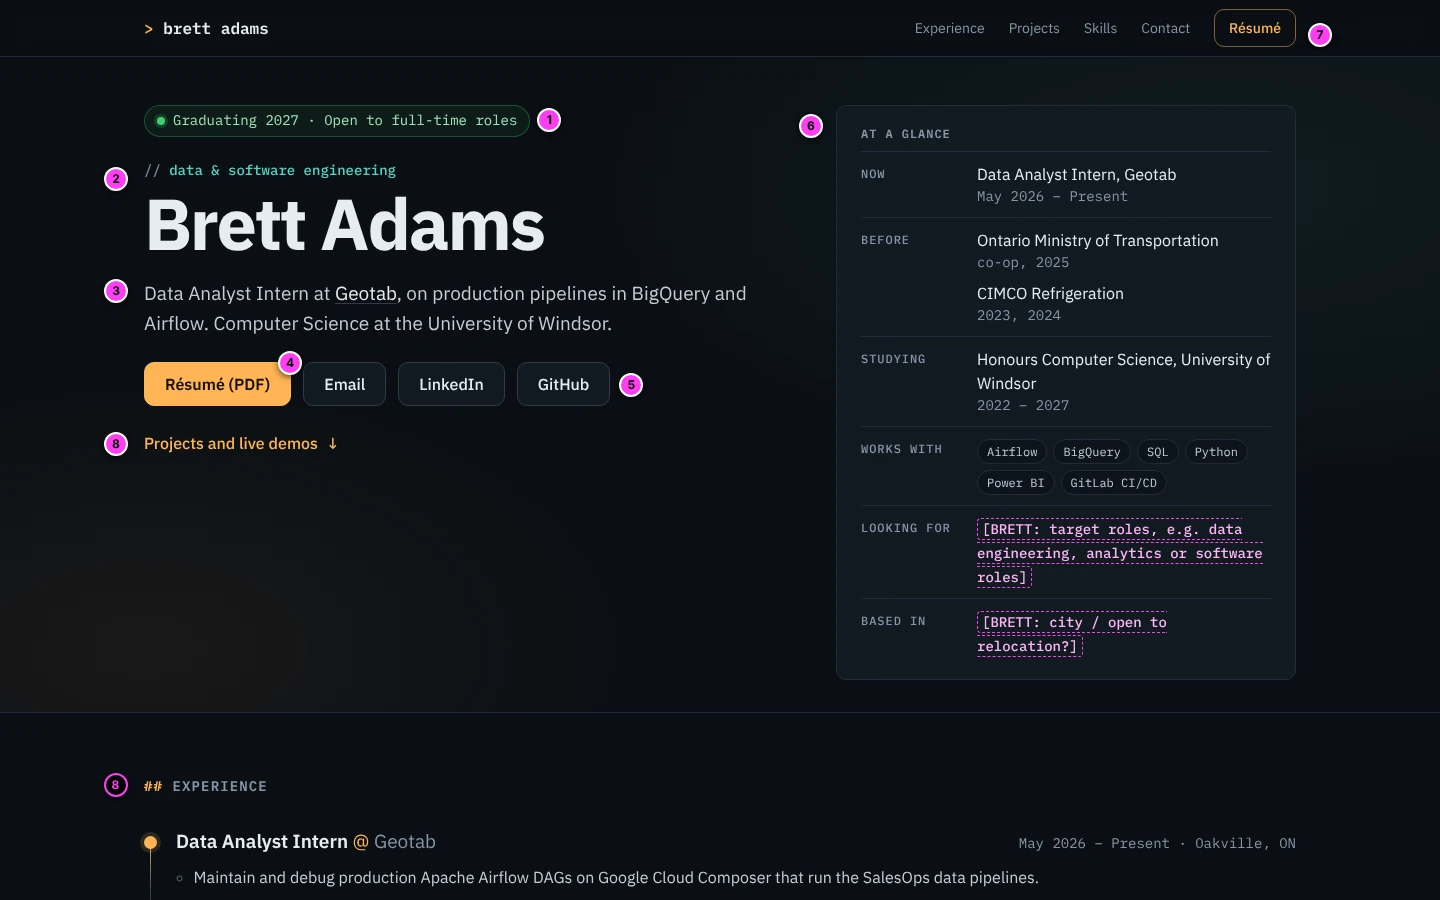
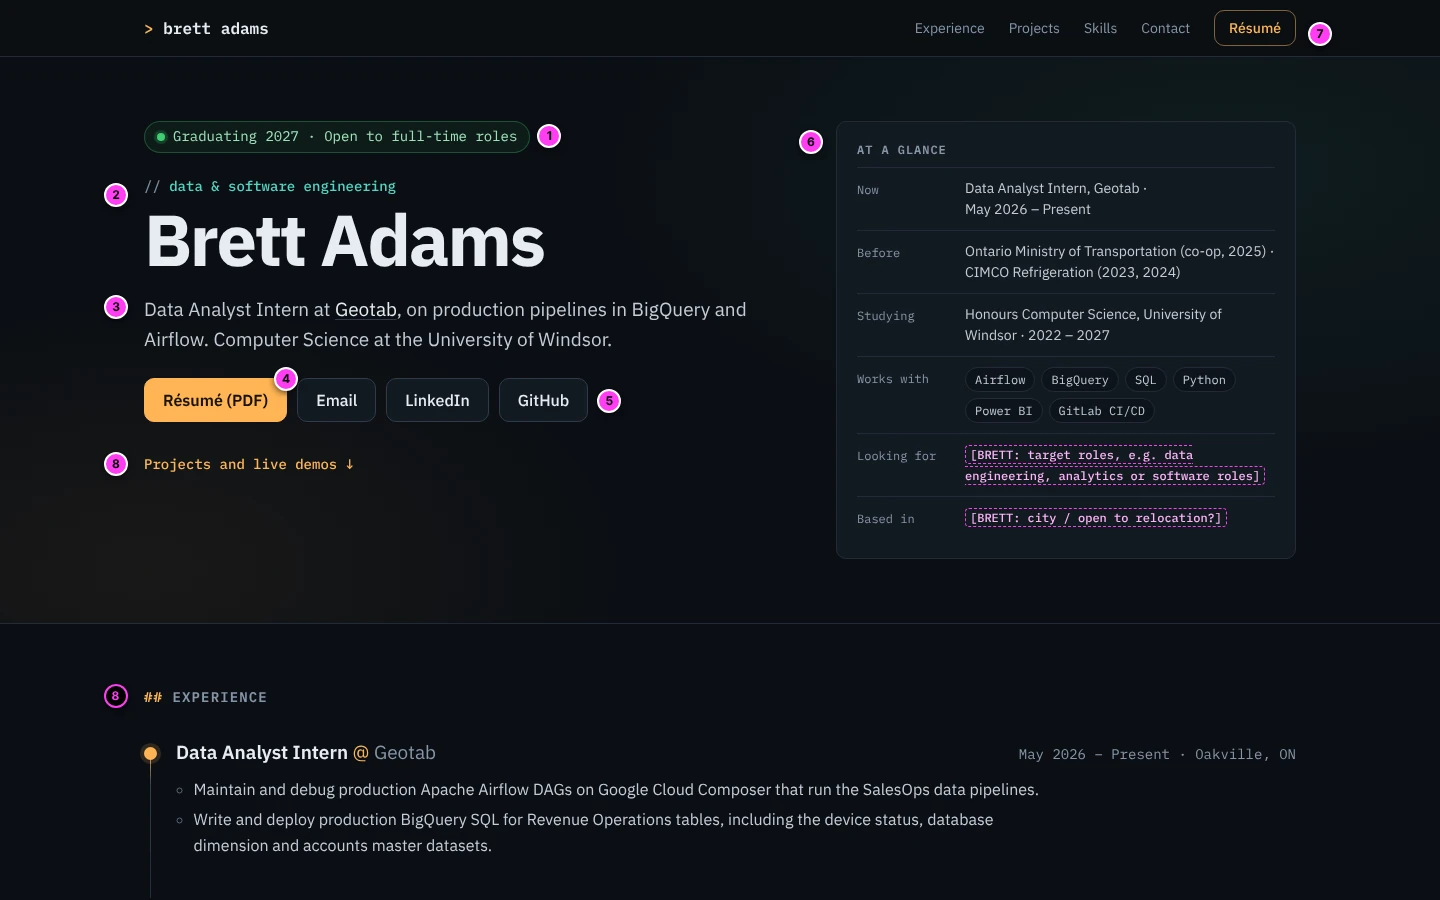
WIP: first-screen mock rebuilt to the component markup
Claude-Session: https://claude.ai/code/session_01QvLCeGaMDEbJwXX9Jf32bx

diff --git a/handoff/mocks/first-screen.html b/handoff/mocks/first-screen.html
@@ -8,6 +8,7 @@
   - Magenta circles (.mk) and magenta dashed boxes (.ph) are mock overlays, not design.
     Circles are aria-hidden. Dashed boxes mark [BRETT: ...] placeholders that never ship.
   - Copy is the sourced copy from section 6. Links point where the real ones will.
+  - Markup and class names follow section 8 (8.0-8.4); values come from section 7.
 -->
 <html lang="en">
 <head>
@@ -144,6 +145,7 @@
 /* ---- Base ---- */
 *, *::before, *::after { box-sizing: border-box; }
 html { -webkit-text-size-adjust: 100%; scroll-padding-top: calc(var(--header-h) + var(--space-4)); }
+@media (prefers-reduced-motion: no-preference) { html { scroll-behavior: smooth; } }
 body {
   margin: 0;
   background: var(--bg);
@@ -151,10 +153,15 @@ body {
   font: 400 var(--fs-base) / var(--lh-base) var(--sans);
   -webkit-font-smoothing: antialiased;
 }
-a { color: var(--amber); text-decoration-thickness: 1px; text-underline-offset: 3px; }
+a { color: var(--amber); text-decoration-thickness: 1px; text-underline-offset: 3px; transition: color var(--dur-fast) var(--ease-out); }
 a:hover { color: var(--amber-hi); }
-:focus-visible { outline: 2px solid var(--focus); outline-offset: 3px; border-radius: var(--radius-sm); }
+:focus-visible { outline: 2px solid var(--focus); outline-offset: 3px; border-radius: 4px; }
+main:focus { outline: none; }
 .wrap { max-width: var(--container); margin: 0 auto; padding: 0 var(--gutter); }
+.prefix { color: var(--amber); white-space: pre; }   /* keeps the trailing space inside inline-flex parents */
+.nowrap { white-space: nowrap; }
+.kicker .prefix { color: var(--dim); }
+.sr-only { position: absolute; width: 1px; height: 1px; padding: 0; margin: -1px; overflow: hidden; clip: rect(0 0 0 0); white-space: nowrap; border: 0; }
 
 .skip-link {
   position: absolute; left: var(--space-4); top: -48px; z-index: var(--z-skip);
@@ -163,47 +170,39 @@ a:hover { color: var(--amber-hi); }
 }
 .skip-link:focus { top: var(--space-3); }
 
-/* ---- Header ---- */
+/* ---- 8.1 Header ---- */
 .site-header {
   position: sticky; top: 0; z-index: var(--z-header);
-  background: rgba(11, 15, 20, 0.82);
+  background: rgba(11, 15, 20, 0.92);
   -webkit-backdrop-filter: saturate(1.4) blur(12px);
   backdrop-filter: saturate(1.4) blur(12px);
   border-bottom: 1px solid var(--border);
 }
 .site-header-inner { display: flex; align-items: center; justify-content: space-between; gap: var(--space-4); height: var(--header-h); }
+.site-name, .site-nav a { display: inline-flex; align-items: center; min-height: 44px; }
 .site-name { color: var(--text); font: 600 var(--fs-base) var(--mono); text-decoration: none; }
-.site-name::before { content: "> "; content: "> " / ""; color: var(--amber); }
 .site-name:hover { color: var(--text); }
 .site-nav { display: flex; align-items: center; gap: var(--space-6); font-size: var(--fs-sm); }
 .site-nav a { color: var(--muted); text-decoration: none; }
-.site-nav .nav-section { padding: 10px 0; }
 .site-nav a:hover { color: var(--text); }
 .site-nav .nav-resume {
-  padding: 7px 14px; border: 1px solid var(--amber-line); border-radius: var(--radius);
+  min-height: 36px; padding: 0 14px; border: 1px solid var(--amber-line); border-radius: var(--radius);
   color: var(--amber); font-weight: 500;
 }
 .site-nav .nav-resume:hover { background: var(--amber-wash); color: var(--amber-hi); }
+.nav-sections { display: none; border-bottom: 1px solid var(--border); background: var(--bg); }
 
-/* Phone section row: a sibling of the sticky header, so it scrolls away. */
-.nav-sections { display: none; }
-
-/* ---- Hero ---- */
+/* ---- 8.2 Hero ---- */
 .hero {
   position: relative;
-  padding: var(--space-8) 0 var(--space-7);
+  padding: var(--space-9) 0;
   overflow: hidden;
   border-bottom: 1px solid var(--border);
   background:
     radial-gradient(900px 420px at 85% 20%, rgba(79, 214, 196, 0.07), transparent 70%),
     radial-gradient(700px 380px at 10% 90%, rgba(255, 180, 84, 0.06), transparent 70%);
 }
-.hero-grid {
-  display: grid;
-  grid-template-columns: minmax(0, 7fr) minmax(0, 5fr);
-  gap: var(--space-8);
-  align-items: start;
-}
+.hero-grid { display: grid; grid-template-columns: minmax(0, 7fr) minmax(0, 5fr); gap: var(--space-8); align-items: start; }
 .status {
   display: inline-flex; align-items: center; gap: var(--space-2);
   margin: 0; padding: 5px 12px;
@@ -213,7 +212,6 @@ a:hover { color: var(--amber-hi); }
 }
 .status-dot { width: 8px; height: 8px; flex: none; border-radius: 50%; background: var(--good); box-shadow: 0 0 0 3px rgba(60, 207, 110, 0.2); }
 .kicker { margin: var(--space-6) 0 var(--space-1); color: var(--teal); font: 500 var(--fs-sm) / 1.4 var(--mono); }
-.kicker::before { content: "// "; content: "// " / ""; color: var(--dim); }
 .hero h1 {
   margin: 0 0 var(--space-4);
   font-size: var(--fs-display); font-weight: 700;
@@ -222,24 +220,27 @@ a:hover { color: var(--amber-hi); }
 .lede { max-width: 34em; margin: 0 0 var(--space-6); color: var(--soft); font-size: var(--fs-lg); line-height: 1.55; }
 .lede a { color: var(--text); text-decoration-color: var(--border-strong); }
 .lede a:hover { text-decoration-color: var(--amber); }
-.actions { display: flex; flex-wrap: wrap; gap: var(--space-3); margin: 0; }
+.actions { display: flex; flex-wrap: wrap; gap: 10px; margin: 0; }
 .btn {
   display: inline-flex; align-items: center; justify-content: center;
-  min-height: 44px; padding: 0 var(--space-5);
+  min-height: 44px; padding: 0 18px;
   border: 1px solid var(--border-strong); border-radius: var(--radius);
   background: var(--surface); color: var(--text);
   font: 500 var(--fs-base) var(--sans); text-decoration: none;
   transition: border-color var(--dur-fast) var(--ease-out), background-color var(--dur-fast) var(--ease-out);
 }
 .btn:hover { border-color: var(--muted); background: var(--surface-2); color: var(--text); }
+.btn:active { background: var(--bg-2); }
 .btn-primary { background: var(--amber); border-color: var(--amber); color: var(--on-amber); font-weight: 600; }
 .btn-primary:hover { background: var(--amber-hi); border-color: var(--amber-hi); color: var(--on-amber); }
-.hero-jump { display: inline-flex; align-items: center; gap: var(--space-2); min-height: 44px; margin-top: var(--space-4); font-weight: 500; text-decoration: none; }
-.hero-jump:hover { text-decoration: underline; }
+.btn-primary:active { background: var(--amber); }
+.hero-jump { margin: 20px 0 0; font: 500 var(--fs-sm) var(--mono); }
+.hero-jump a { display: inline-flex; align-items: center; min-height: 44px; text-decoration: none; }
+.hero-jump a:hover { text-decoration: underline; }
 
-/* At a glance */
-.glance-card {
-  padding: var(--space-5) var(--space-6) var(--space-3);
+/* ---- 8.3 At a glance ---- */
+.glance {
+  padding: 20px;
   border: 1px solid var(--border); border-radius: var(--radius);
   background: var(--surface);
 }
@@ -248,83 +249,67 @@ a:hover { color: var(--amber-hi); }
   color: var(--muted); font: 600 var(--fs-xs) / 1.4 var(--mono);
   letter-spacing: var(--tracking-caps); text-transform: uppercase;
 }
-.glance { margin: 0; }
-.glance > div {
-  display: grid; grid-template-columns: 6.5rem minmax(0, 1fr); gap: var(--space-3);
-  padding: 10px 0; border-top: 1px solid var(--border);
-}
-.glance dt {
-  padding-top: 3px; color: var(--muted);
-  font: 500 var(--fs-xs) / 1.5 var(--mono); letter-spacing: var(--tracking-caps); text-transform: uppercase;
-}
-.glance dd { margin: 0; color: var(--text); font-size: var(--fs-base); line-height: 1.5; }
-.glance-line { display: block; }
-.glance-line + .glance-line { margin-top: var(--space-2); }
-.glance-when { display: block; color: var(--muted); font: var(--fs-sm) / 1.5 var(--mono); }
+.glance-list { margin: 0; }
+.glance-list > div { display: grid; grid-template-columns: 96px minmax(0, 1fr); gap: 12px; padding: 10px 0; border-top: 1px solid var(--border); }
+.glance-list dt { padding-top: 2px; color: var(--muted); font: var(--fs-xs) / 1.6 var(--mono); }
+.glance-list dd { margin: 0; color: var(--soft); font-size: var(--fs-sm); line-height: 1.5; }
 .chips { display: flex; flex-wrap: wrap; gap: 6px; margin: 0; padding: 0; list-style: none; }
 .chips li {
   padding: 2px 9px; border: 1px solid var(--border); border-radius: var(--radius-pill);
   background: var(--bg-2); color: var(--soft); font: var(--fs-xs) / 1.6 var(--mono);
 }
-.glance .chips { padding-top: 2px; }
 
-/* ---- Sections (only the start of Experience is in the fold) ---- */
+/* ---- 8.4 Start of Experience ---- */
 .section { padding: var(--space-9) 0; border-bottom: 1px solid var(--border); }
 .section-title {
   margin: 0 0 var(--space-7);
   color: var(--muted); font: 600 var(--fs-sm) / 1.4 var(--mono);
   letter-spacing: var(--tracking-caps); text-transform: uppercase;
 }
-.section-title::before { content: "## "; content: "## " / ""; color: var(--amber); }
 .timeline { position: relative; margin: 0; padding: 0 0 0 32px; list-style: none; }
 .timeline::before {
   content: ""; position: absolute; left: 6px; top: 8px; bottom: 8px; width: 1px;
   background: linear-gradient(var(--amber), var(--border-strong) 25%, var(--border));
 }
-.job { position: relative; padding: 0 0 44px; }
+.job { position: relative; padding: 0 0 var(--space-7); }
 .job::before {
   content: ""; position: absolute; left: -32px; top: 7px; width: 13px; height: 13px;
   border: 2px solid var(--border-strong); border-radius: 50%; background: var(--bg);
 }
 .job-current::before { border-color: var(--amber); background: var(--amber); box-shadow: 0 0 0 4px rgba(255, 180, 84, 0.15); }
 .job-head { display: flex; flex-wrap: wrap; align-items: baseline; justify-content: space-between; gap: 4px 20px; }
-.job h3 { margin: 0; font-size: var(--fs-lg); font-weight: 600; line-height: var(--lh-snug); }
+.job-title { margin: 0; font-size: var(--fs-lg); font-weight: 600; line-height: var(--lh-snug); }
 .job-org { color: var(--muted); font-weight: 400; }
-.job-org::before { content: "@ "; content: "@ " / ""; color: var(--amber); }
-.sr-only { position: absolute; width: 1px; height: 1px; margin: -1px; padding: 0; overflow: hidden; clip: rect(0 0 0 0); white-space: nowrap; border: 0; }
 .job-when { margin: 0; color: var(--muted); font: var(--fs-sm) var(--mono); }
-.job > ul:not(.chips) { max-width: 54em; margin: var(--space-3) 0 var(--space-4); padding-left: 1.1em; color: var(--soft); }
-.job > ul:not(.chips) li { margin: 5px 0; }
-.job > ul:not(.chips) li::marker { color: var(--faint); }
+.job-points { max-width: 54em; margin: var(--space-3) 0 var(--space-4); padding-left: 1.1em; color: var(--soft); }
+.job-points li { margin: 5px 0; }
+.job-points li::marker { color: var(--faint); }
 
-/* ---- Breakpoints: 980 / 860 / 640 ---- */
-@media (max-width: 980px) {
-  .hero-grid { grid-template-columns: minmax(0, 1fr); gap: var(--space-7); }
-}
+/* ---- Breakpoints (section 7.6): 980 / 860 / 640 ---- */
+@media (max-width: 1000px) { .site-nav { gap: var(--space-4); } }
+@media (max-width: 980px) { .hero { padding: 40px 0 var(--space-8); } }
 @media (max-width: 860px) {
   .site-nav .nav-section { display: none; }
-  .nav-sections {
-    display: flex; justify-content: space-between;
-    border-bottom: 1px solid var(--border); background: var(--bg);
-  }
+  .nav-sections { display: block; }
+  .nav-sections-inner { display: flex; justify-content: space-between; }
   .nav-sections a {
-    display: flex; align-items: center; min-height: 44px;
-    color: var(--muted); font-size: var(--fs-base); text-decoration: none;
+    flex: 1 1 0; min-height: 44px; display: inline-flex; align-items: center; justify-content: center;
+    color: var(--soft); text-decoration: none; font: 500 var(--fs-sm) var(--sans);
   }
   .nav-sections a:hover { color: var(--text); }
-  .hero-jump { display: none; }
+  .hero-grid { grid-template-columns: minmax(0, 1fr); gap: var(--space-6); }
+  .glance { max-width: 560px; }
 }
 @media (max-width: 640px) {
-  .hero { padding: var(--space-6) 0 var(--space-8); }
+  .hero { padding: var(--space-7) 0 40px; }
   .status { font-size: var(--fs-xs); }
-  .kicker { margin-top: var(--space-5); }
-  .hero h1 { margin-bottom: var(--space-3); }
-  .lede { margin-bottom: var(--space-5); font-size: var(--fs-md); }
+  .lede { font-size: var(--fs-md); }
   .actions { display: grid; grid-template-columns: repeat(3, minmax(0, 1fr)); gap: var(--space-2); }
-  .actions .btn { padding: 0 var(--space-2); }
-  .actions .btn-primary { grid-column: 1 / -1; min-height: 48px; }
-  .glance-card { padding: var(--space-4) var(--space-4) var(--space-2); }
-  .glance > div { grid-template-columns: minmax(0, 1fr); gap: 2px; padding: 10px 0; }
+  .actions .btn { justify-content: center; padding: 0 var(--space-2); }
+  .actions .btn-resume { grid-column: 1 / -1; }
+  .glance { max-width: none; padding: 16px; }
+  .glance-list > div { grid-template-columns: 88px minmax(0, 1fr); }
+  .glance-list > .glance-now { display: none; }   /* needs the child selector to beat .glance-list > div */
   .section { padding: var(--space-8) 0; }
 }
 
@@ -344,9 +329,8 @@ a:hover { color: var(--amber-hi); }
 .ph {
   display: inline; padding: 1px 4px;
   border: 1px dashed #ff3df2; border-radius: 4px;
-  color: #ffb3f8; font: 500 var(--fs-sm) / 1.5 var(--mono);
+  color: #ffb3f8; font: 500 var(--fs-xs) / 1.6 var(--mono);
 }
-/* Desktop: markers sit in the left gutter. Phone: on the element's right edge. */
 .m1 { left: auto; right: -32px; top: 2px; }
 .m2 { top: 6px; }
 .m4 { left: auto; right: -12px; top: -12px; }
@@ -359,11 +343,12 @@ a:hover { color: var(--amber-hi); }
 @media (max-width: 860px) {
   .mk { left: auto; right: 0; top: -4px; }
   .m1 { right: -30px; top: 1px; }
+  .m3 { top: -22px; }
   .m4, .m5 { right: -2px; top: -12px; }
   .m6 { right: 8px; top: 8px; }
   .m7 { display: none; }
   .m7m { display: grid; left: calc(50% - 12px); right: auto; top: -12px; }
-  .m3 { top: -22px; }
+  .m8 { left: auto; right: auto; left: 236px; top: 10px; }
 }
 </style>
 </head>
@@ -372,7 +357,7 @@ a:hover { color: var(--amber-hi); }
 
 <header class="site-header">
   <div class="wrap site-header-inner">
-    <a class="site-name" href="/">brett adams</a>
+    <a class="site-name" href="/"><span class="prefix" aria-hidden="true">&gt; </span>brett adams</a>
     <nav class="site-nav mk-host" aria-label="Main">
       <a class="nav-section" href="/#experience">Experience</a>
       <a class="nav-section" href="/#projects">Projects</a>
@@ -383,63 +368,63 @@ a:hover { color: var(--amber-hi); }
     </nav>
   </div>
 </header>
-<nav class="nav-sections wrap mk-host" aria-label="Sections">
-  <a href="/#experience">Experience</a>
-  <a href="/#projects">Projects</a>
-  <a href="/#skills">Skills</a>
-  <a href="/#contact">Contact</a>
-  <span class="mk m7m" aria-hidden="true">7</span>
+<nav class="nav-sections" aria-label="Sections">
+  <div class="wrap nav-sections-inner mk-host">
+    <a href="/#experience">Experience</a>
+    <a href="/#projects">Projects</a>
+    <a href="/#skills">Skills</a>
+    <a href="/#contact">Contact</a>
+    <span class="mk m7m" aria-hidden="true">7</span>
+  </div>
 </nav>
 
-<main id="main">
+<main id="main" tabindex="-1">
   <section class="hero" aria-labelledby="hero-name">
     <div class="wrap hero-grid">
       <div class="hero-text">
         <p class="status mk-host"><span class="status-dot" aria-hidden="true"></span>Graduating 2027 · Open to full-time roles<span class="mk m1" aria-hidden="true">1</span></p>
         <div class="mk-host">
-          <p class="kicker">data &amp; software engineering</p>
+          <p class="kicker"><span class="prefix" aria-hidden="true">// </span>data &amp; software engineering</p>
           <h1 id="hero-name">Brett Adams</h1>
           <span class="mk m2" aria-hidden="true">2</span>
         </div>
         <p class="lede mk-host">Data Analyst Intern at <a href="https://www.geotab.com">Geotab</a>, on production pipelines in BigQuery and Airflow. Computer Science at the University of Windsor.<span class="mk m3" aria-hidden="true">3</span></p>
-        <p class="actions mk-host">
-          <a class="btn btn-primary mk-host" href="/assets/resume/Resume_BrettAdams.pdf">Résumé (PDF)<span class="mk m4" aria-hidden="true">4</span></a>
+        <p class="actions">
+          <a class="btn btn-primary btn-resume mk-host" href="/assets/resume/Resume_BrettAdams.pdf">Résumé (PDF)<span class="mk m4" aria-hidden="true">4</span></a>
           <a class="btn" href="mailto:adamsbrett00@gmail.com" data-contact="email">Email</a>
           <a class="btn" href="https://www.linkedin.com/in/bretta/" data-contact="linkedin">LinkedIn</a>
           <a class="btn mk-host" href="https://github.com/brettadams0" data-contact="github">GitHub<span class="mk m5" aria-hidden="true">5</span></a>
         </p>
-        <a class="hero-jump mk-host" href="#projects">Projects and live demos <span aria-hidden="true">↓</span><span class="mk m8" aria-hidden="true">8</span></a>
+        <p class="hero-jump mk-host"><a href="#projects">Projects and live demos<span class="nowrap" aria-hidden="true">&nbsp;↓</span></a><span class="mk m8" aria-hidden="true">8</span></p>
       </div>
 
-      <section class="glance-card mk-host" aria-labelledby="glance-title">
+      <div class="glance mk-host">
         <h2 class="glance-title" id="glance-title">At a glance</h2>
-        <dl class="glance">
-          <div><dt>Now</dt><dd><span class="glance-line"><span>Data Analyst Intern, Geotab</span> <span class="glance-when">May 2026 – Present</span></span></dd></div>
-          <div><dt>Before</dt><dd><span class="glance-line"><span>Ontario Ministry of Transportation</span> <span class="glance-when">co-op, 2025</span></span><span class="glance-line"><span>CIMCO Refrigeration</span> <span class="glance-when">2023, 2024</span></span></dd></div>
-          <div><dt>Studying</dt><dd><span class="glance-line"><span>Honours Computer Science, University of Windsor</span> <span class="glance-when">2022 – 2027</span></span></dd></div>
-          <div><dt>Works with</dt><dd><ul class="chips"><li>Airflow</li><li>BigQuery</li><li>SQL</li><li>Python</li><li>Power BI</li><li>GitLab CI/CD</li></ul></dd></div>
+        <dl class="glance-list">
+          <div class="glance-now"><dt>Now</dt><dd>Data Analyst Intern, Geotab · <span class="nowrap">May 2026 – Present</span></dd></div>
+          <div><dt>Before</dt><dd>Ontario Ministry of Transportation <span class="nowrap">(co-op, 2025)</span> · CIMCO Refrigeration <span class="nowrap">(2023, 2024)</span></dd></div>
+          <div><dt>Studying</dt><dd>Honours Computer Science, University of Windsor · <span class="nowrap">2022 – 2027</span></dd></div>
+          <div><dt>Works with</dt><dd><ul class="chips" role="list"><li>Airflow</li><li>BigQuery</li><li>SQL</li><li>Python</li><li>Power BI</li><li>GitLab CI/CD</li></ul></dd></div>
           <div><dt>Looking for</dt><dd><span class="ph">[BRETT: target roles, e.g. data engineering, analytics or software roles]</span></dd></div>
           <div><dt>Based in</dt><dd><span class="ph">[BRETT: city / open to relocation?]</span></dd></div>
         </dl>
         <span class="mk m6" aria-hidden="true">6</span>
-      </section>
+      </div>
     </div>
   </section>
 
   <section id="experience" class="section" aria-labelledby="experience-title">
     <div class="wrap">
-      <h2 id="experience-title" class="section-title mk-host">Experience<span class="mk mk-ghost m8b" aria-hidden="true">8</span></h2>
+      <h2 id="experience-title" class="section-title mk-host"><span class="prefix" aria-hidden="true">## </span>Experience<span class="mk mk-ghost m8b" aria-hidden="true">8</span></h2>
       <ol class="timeline">
         <li class="job job-current">
           <div class="job-head">
-            <h3>Data Analyst Intern <span class="job-org"><span class="sr-only">at </span>Geotab</span></h3>
+            <h3 class="job-title">Data Analyst Intern <span class="job-org"><span class="prefix" aria-hidden="true">@ </span><span class="sr-only">at </span>Geotab</span></h3>
             <p class="job-when">May 2026 – Present · Oakville, ON</p>
           </div>
-          <ul>
+          <ul class="job-points">
             <li>Maintain and debug production Apache Airflow DAGs on Google Cloud Composer that run the SalesOps data pipelines.</li>
             <li>Write and deploy production BigQuery SQL for Revenue Operations tables, including the device status, database dimension and accounts master datasets.</li>
-            <li>Ship changes through GitLab CI/CD, from branch development through staging validation to production.</li>
-            <li>Carry out live table migrations against fixed infrastructure deadlines, coordinating with dataset owners.</li>
           </ul>
         </li>
       </ol>
@@ -448,7 +433,7 @@ a:hover { color: var(--amber-hi); }
 
   <section id="projects" class="section" aria-labelledby="projects-title">
     <div class="wrap">
-      <h2 id="projects-title" class="section-title">Projects</h2>
+      <h2 id="projects-title" class="section-title"><span class="prefix" aria-hidden="true">## </span>Projects</h2>
       <p style="color: var(--muted)">Not mocked. Section 8 specifies the cards.</p>
     </div>
   </section>
